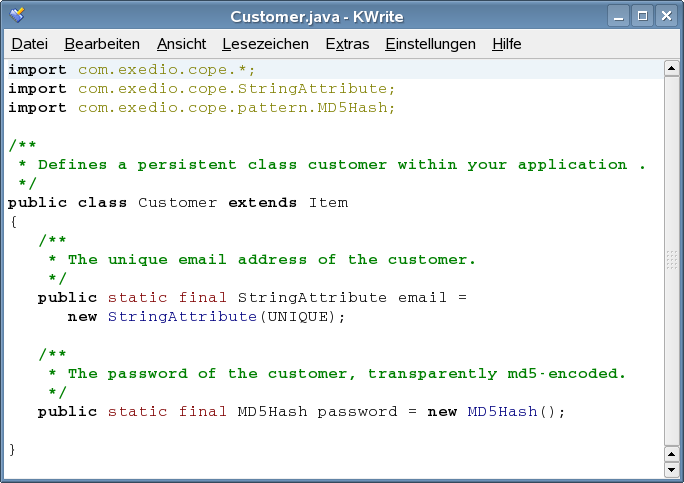
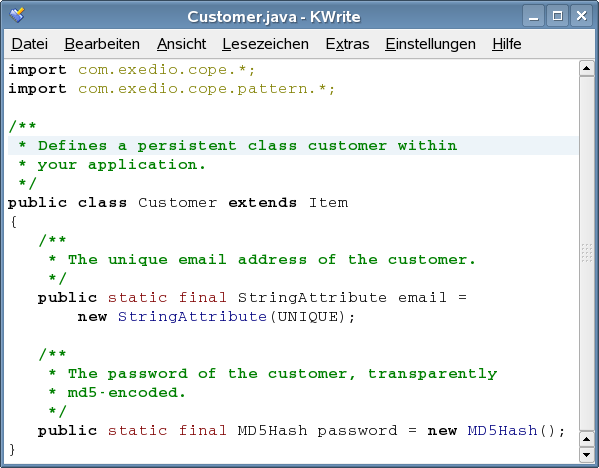
make definition.png fit into 640x480
git-svn-id: https://svn.exedio.com/cope/trunk/persistence@6250 e7d4fc99-c606-0410-b9bf-843393a9eab7

diff --git a/screenshots/Customer.java b/screenshots/Customer.java
@@ -1,21 +1,21 @@
 import com.exedio.cope.*;
-import com.exedio.cope.StringAttribute;
-import com.exedio.cope.pattern.MD5Hash;
+import com.exedio.cope.pattern.*;
 
 /**
- * Defines a persistent class customer within your application.
+ * Defines a persistent class customer within
+ * your application.
  */
 public class Customer extends Item
 {
-	/**
-	 * The unique email address of the customer.
-	 */
-	public static final StringAttribute email =
-		new StringAttribute(UNIQUE);
-	
-	/**
-	 * The password of the customer, transparently md5-encoded.
-	 */
-	public static final MD5Hash password = new MD5Hash();
+   /**
+    * The unique email address of the customer.
+    */
+   public static final StringAttribute email =
+       new StringAttribute(UNIQUE);
 
+   /**
+    * The password of the customer, transparently
+    * md5-encoded.
+    */
+   public static final MD5Hash password = new MD5Hash();
 }
